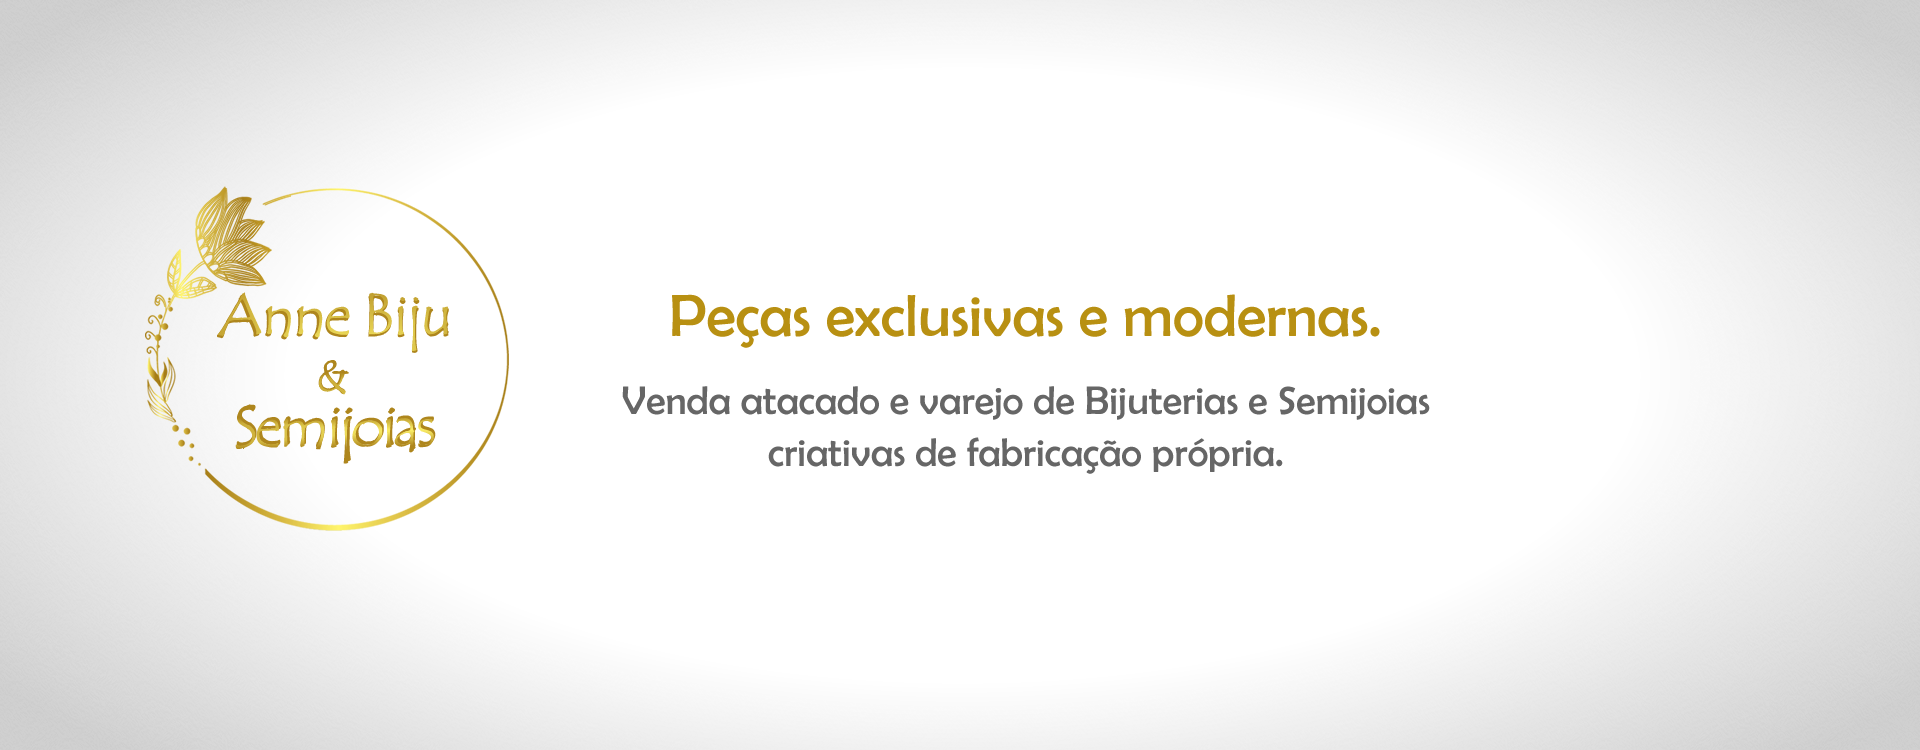
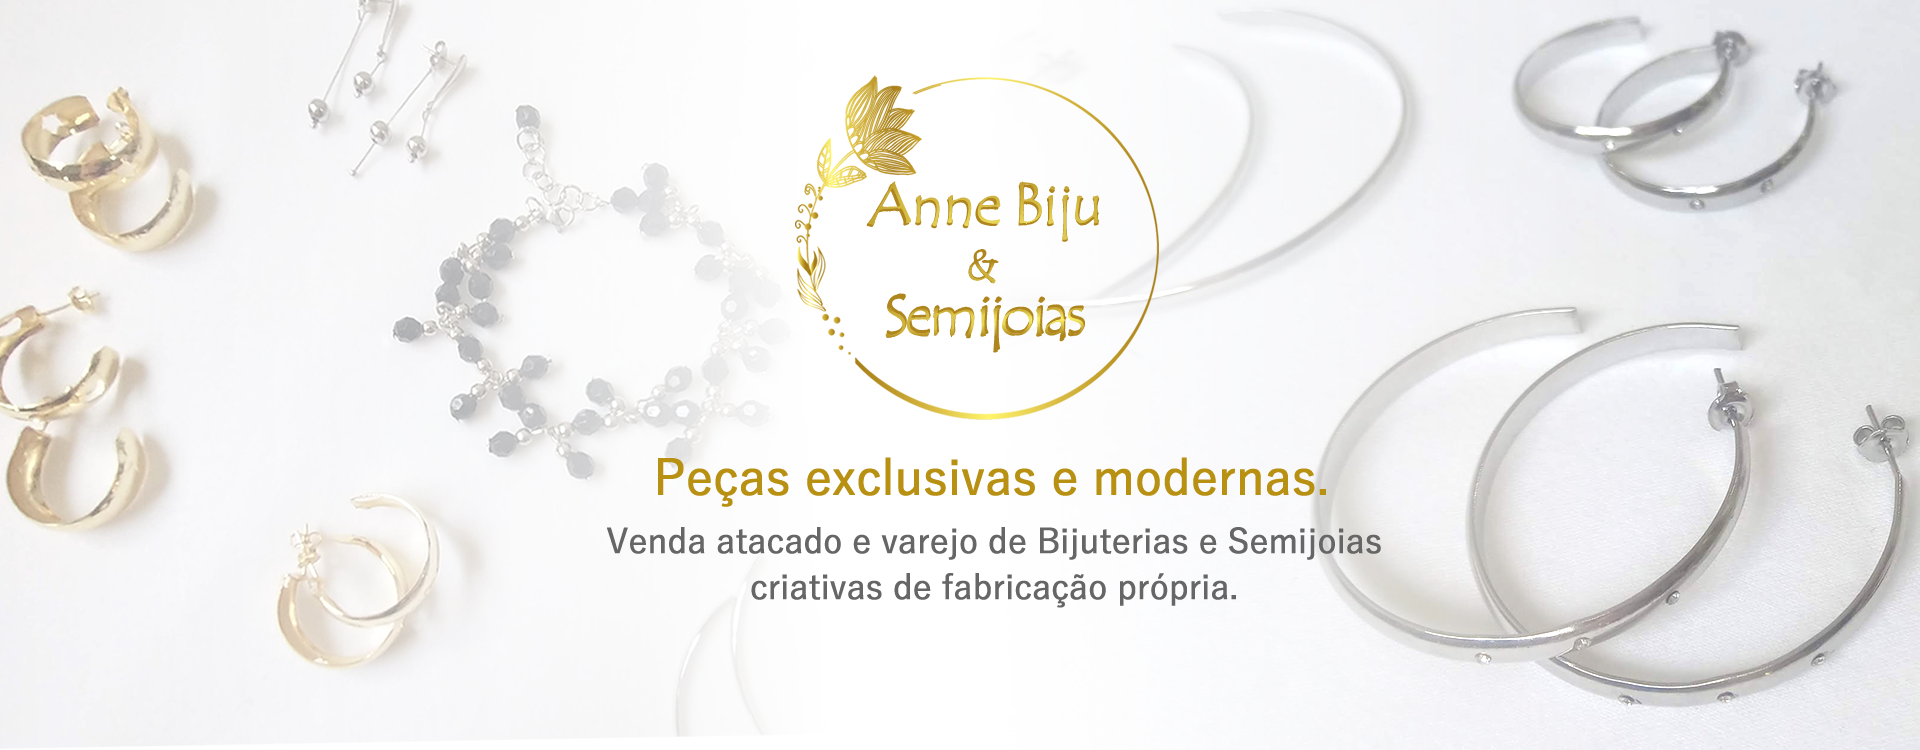
update images

diff --git a/index.html b/index.html
@@ -6,8 +6,6 @@
     <meta name="viewport" content="width=device-width, initial-scale=1.0">
     <title>Anne Biju e Semijoias</title>
 
-    <link rel="shortcut icon" href="favicon.ico" type="image/x-icon">
-
     <!-- Bootstrap CDN -->
 
     <link rel="stylesheet" href="https://stackpath.bootstrapcdn.com/bootstrap/4.5.2/css/bootstrap.min.css"
@@ -47,7 +45,7 @@
 
           </div>
           <div class="col-md-4 col-12 text-center">
-            <h2 class="my-md-3 site-title text-white"> Online Store</h2>
+            <h2 class="my-md-3 site-title text-white"> Nossa Loja</h2>
           </div>
           <div class="col-md-4 col-12 text-right">
             <p class="my-md-4 header-links">
@@ -123,7 +121,7 @@
               <img src="./assets/item2a.png" class="img-fluid" alt="Banner 2">
             </div>
             <div>
-              <img src="./assets/item-3.jpg" class="img-fluid" alt="Banner 3">
+              <img src="./assets/item3a.png" class="img-fluid" alt="Banner 3">
             </div>
           </div>
           <div class="slider-btn">
@@ -197,9 +195,9 @@
         <div class="site-slider-three px-md-4">
           <div class="slider-three row text-center px-4">
             <div class="col-md-2 product pt-md-5">
-              <img src="/assets/15_3.jpg" class="img-fluid" alt="Image 1">
+              <img src="/assets/gargantilha_color.png" class="img-fluid" alt="Image 1">
               <div class="cart-details">
-                <h6 class="pro-title p-0">Vinyl Folding Table</h6>
+                <h6 class="pro-title p-0">Colar Flores Coloridas</h6>
                 <div class="rating">
                   <i class="fas fa-star"></i>
                   <i class="fas fa-star"></i>
@@ -209,8 +207,8 @@
                 </div>
                 <div class="pro-price py-2">
                   <h5>
-                    <small><s class="text-secondary">$125.99</s></small>
-                    <span>$120</span>
+                    <small><s class="text-secondary">R$25.00</s></small>
+                    <span>R$20</span>
                   </h5>
                 </div>
                 <div class="cart mt-4">
@@ -219,9 +217,9 @@
               </div>
             </div>
             <div class="col-md-2 product pt-md-5">
-              <img src="/assets/9_21.jpg" class="img-fluid" alt="Image 2">
+              <img src="/assets/flor-verde.png" class="img-fluid" alt="Image 2">
               <div class="cart-details">
-                <h6 class="pro-title p-0">Ikea Rusch 25x4 Wall</h6>
+                <h6 class="pro-title p-0">Gargantilha Flor Verde</h6>
                 <div class="rating">
                   <i class="fas fa-star"></i>
                   <i class="fas fa-star"></i>
@@ -231,8 +229,8 @@
                 </div>
                 <div class="pro-price py-2">
                   <h5>
-                    <small><s class="text-secondary">$119.99</s></small>
-                    <span>$103</span>
+                    <small><s class="text-secondary">R$20.00</s></small>
+                    <span>R$15</span>
                   </h5>
                 </div>
                 <div class="cart mt-4">
@@ -241,9 +239,9 @@
               </div>
             </div>
             <div class="col-md-2 product pt-md-5">
-              <img src="/assets/10_22.jpg" class="img-fluid" alt="Image 3">
+              <img src="/assets/buzios_1.png" class="img-fluid" alt="Image 3">
               <div class="cart-details">
-                <h6 class="pro-title p-0">Himalayan Salt Lamp Touch</h6>
+                <h6 class="pro-title p-0">Gargantilha Búzios Dourados</h6>
                 <div class="rating">
                   <i class="fas fa-star"></i>
                   <i class="fas fa-star"></i>
@@ -253,8 +251,8 @@
                 </div>
                 <div class="pro-price py-2">
                   <h5>
-                    <small><s class="text-secondary">$469.99</s></small>
-                    <span>$449.99</span>
+                    <small><s class="text-secondary">R$30.00</s></small>
+                    <span>R$25.00</span>
                   </h5>
                 </div>
                 <div class="cart mt-4">
@@ -263,30 +261,9 @@
               </div>
             </div>
             <div class="col-md-2 product pt-md-5">
-              <img src="/assets/12_16.jpg" class="img-fluid" alt="Image 4">
+              <img src="/assets/colar_marrom.png" class="img-fluid" alt="Image 4">
               <div class="cart-details">
-                <h6 class="pro-title p-0">Table Lamp Beside Desk</h6>
-                <div class="rating">
-                  <i class="fas fa-star"></i>
-                  <i class="fas fa-star"></i>
-                  <i class="fas fa-star"></i>
-                  <i class="fas fa-star"></i>
-                  <i class="fas fa-star-half-alt"></i>
-                </div>
-                <div class="pro-price py-2">
-                  <h5>
-                    <span>$449.99</span>
-                  </h5>
-                </div>
-                <div class="cart mt-4">
-                  <button class="border site-btn btn-span">Add to Cart</button>
-                </div>
-              </div>
-            </div>
-            <div class="col-md-2 product pt-md-5">
-              <img src="/assets/11_18.jpg" class="img-fluid" alt="Image 5">
-              <div class="cart-details">
-                <h6 class="pro-title p-0">Table Lamp Beside Desk</h6>
+                <h6 class="pro-title p-0">Colar Pedra Marrom</h6>
                 <div class="rating">
                   <i class="fas fa-star"></i>
                   <i class="fas fa-star"></i>
@@ -296,8 +273,8 @@
                 </div>
                 <div class="pro-price py-2">
                   <h5>
-                    <small><s class="text-secondary">$259.99</s></small>
-                    <span>$240.00</span>
+                    <small><s class="text-secondary">R$30.00</s></small>
+                    <span>R$25.00</span>
                   </h5>
                 </div>
                 <div class="cart mt-4">
@@ -306,16 +283,38 @@
               </div>
             </div>
             <div class="col-md-2 product pt-md-5">
-              <img src="/assets/7_22.jpg" class="img-fluid" alt="Image 6">
+              <img src="/assets/gargantilha_color.png" class="img-fluid" alt="Image 5">
               <div class="cart-details">
-                <h6 class="pro-title p-0">Outdoor Patio Teak Side Table</h6>
+                <h6 class="pro-title p-0">Gargantilha Colorida</h6>
+                <div class="rating">
+                  <i class="fas fa-star"></i>
+                  <i class="fas fa-star"></i>
+                  <i class="fas fa-star"></i>
+                  <i class="fas fa-star"></i>
+                  <i class="fas fa-star-half-alt"></i>
+                </div>
+                <div class="pro-price py-2">
+                  <h5>
+                    <small><s class="text-secondary">R$25.00</s></small>
+                    <span>R$20.00</span>
+                  </h5>
+                </div>
+                <div class="cart mt-4">
+                  <button class="border site-btn btn-span">Add to Cart</button>
+                </div>
+              </div>
+            </div>
+            <div class="col-md-2 product pt-md-5">
+              <img src="/assets/buzios_2.png" class="img-fluid" alt="Image 6">
+              <div class="cart-details">
+                <h6 class="pro-title p-0">Colar e Gargantilha</h6>
                 <div class="rating">
                   <span>Write your review</span>
                 </div>
                 <div class="pro-price py-2">
                   <h5>
-                    <small><s class="text-secondary">$139.99</s></small>
-                    <span>$125.00</span>
+                    <small><s class="text-secondary">R$35.00</s></small>
+                    <span>R$30.00</span>
                   </h5>
                 </div>
                 <div class="cart mt-4">
@@ -361,13 +360,13 @@
               </div>
               <div class="col-md-8 p-0 bg-white">
                 <div class="text-left">
-                  <img src="/assets/1_11.jpg" alt="Sofá" class="img-fluid">
+                  <img src="/assets/a1_11.png" alt="Sofá" class="img-fluid">
                 </div>
               </div>
             </div>
           </div>
           <div class="col-md-6 col-12 pt-5">
-            <h4 class="text-left">Upholstered Fabric Sofa</h4>
+            <h4 class="text-left">Gargantilha Flor Verde</h4>
             <p class="text-secondary pr-5 pt-3">
               <small>
                 Lorem ipsum dolor sit amet consectetur adipisicing elit. Quaerat minima quos expedita? Cum enim alias
@@ -382,8 +381,8 @@
               <i class="fas fa-star"></i>
             </div>
             <h4 class="pt-2">
-              <small> <s class="text-secondary">$519.99</s></small>
-              <span class="text-color">$499.00</span>
+              <small> <s class="text-secondary">R$20.00</s></small>
+              <span class="text-color">R$15.00</span>
             </h4>
             <div class="cart mt-4 row">
               <div class="col-md-4 col-sm-12 p-0">
@@ -437,10 +436,10 @@
       <div class="container my-5">
         <div class="row">
           <div class="col-md-8 col-12">
-            <img src="/assets/id-9-banner-1.jpg" class="img-fluid" alt="Banner 1">
+            <img src="/assets/aid-9-banner-1.png" class="img-fluid" alt="Banner 1">
           </div>
           <div class="col-md-4 col-12">
-            <img src="/assets/id-9-banner-2.jpg" class="img-fluid" alt="Banner 2">
+            <img src="/assets/aid-9-banner-2.png" class="img-fluid" alt="Banner 2">
           </div>
         </div>
         <div class="row my-md-3">
@@ -448,7 +447,7 @@
             <img src="/assets/id-9-banner-3.jpg" class="img-fluid" alt="Banner 3">
           </div>
           <div class="col-md-8 col-12">
-            <img src="/assets/id-9-banner-4.jpg" class="img-fluid" alt="Banner 4">
+            <img src="/assets/aid-9-banner-4.png" class="img-fluid" alt="Banner 4">
           </div>
         </div>
       </div>
@@ -510,12 +509,12 @@
               <div class="row py-3">
                 <div class="col-md-3 p-0">
                   <div class="items border-0">
-                    <img src="/assets/9_21.jpg" class="img-fluid" alt="Image 3">
+                    <img src="/assets/buzios_2.png" class="img-fluid" alt="Image 3">
                   </div>
                 </div>
                 <div class="col-md-9 p-0 py-4 py-md-0">
                   <div class="px-4">
-                    <h6>Ikea Rusch 25x4 Wall</h6>
+                    <h6>Gargantilha Búzios Dourados</h6>
                     <div class="rating pb-2">
                       <i class="fas fa-star"></i>
                       <i class="fas fa-star"></i>
@@ -714,7 +713,7 @@
       <div class="container-fluid p-0">
         <div class="slider-client">
           <div class="slider-box text-center">
-            <h1 class="pt-5 font-roboto">What Our Client Say?</h1>
+            <h1 class="pt-5 font-roboto">Opinião dos Nossos Clientes</h1>
             <div class="slider-six">
               <div>
                 <p>Lorem ipsum dolor sit amet consectetur, adipisicing elit. Delectus, ullam voluptate nam cum rem

diff --git a/js/paypalpayment.js b/js/paypalpayment.js
@@ -1,0 +1,45 @@
+
+
+var express = require('express');
+var request = require('request');
+
+express()
+    .post('/my-server/create-order', function(req, res) {
+        request.post('https://api-m.sandbox.paypal.com/v2/checkout/orders', {
+            headers: {
+                Content-Type: "application/json",
+                Authorization: "Bearer <Access-Token>",
+                PayPal-Partner-Attribution-Id: "8G86Y4G86ZFSE"
+            },
+            body: {
+                "intent": "CAPTURE",
+                "purchase_units": [{
+                    "amount": {
+                        "currency_code": "USD",
+                        "value": "100.00"
+                    },
+                    "payee": {
+                        "email_address": "seller@example.com"
+                    },
+                    "payment_instruction": {
+                        "disbursement_mode": "INSTANT",
+                        "platform_fees": [{
+                            "amount": {
+                                "currency_code": "USD",
+                                "value": "25.00"
+                            }
+                        }]
+                    }
+                }],
+            },
+            json: true
+        }, function (err, response, body) {
+            if (err) {
+                console.error(err);
+                return res.sendStatus(500);
+            }
+            res.json({
+                id: body.id
+            });
+        });
+    });

diff --git a/js/like_button.js b/js/like_button.js
@@ -1,0 +1,25 @@
+"use strict";
+
+const e = React.createElement;
+
+class LikeButton extends React.Component {
+  constructor(props) {
+    super(props);
+    this.state = { liked: false };
+  }
+
+  render() {
+    if (this.state.liked) {
+      return "You liked this.";
+    }
+
+    return e(
+      "button",
+      { onClick: () => this.setState({ liked: true }) },
+      "Like"
+    );
+  }
+}
+
+const domContainer = document.querySelector("#like_button_container");
+ReactDOM.render(e(LikeButton), domContainer);

diff --git a/css/style.css b/css/style.css
@@ -68,8 +68,8 @@ header .site-title {
 
 .navbar-nav .nav-link {
   font-size: 0.9em;
-  /* color: var(--light-gray) !important; */
-  border: 1px var(--border);
+  color: white !important;
+  /*border: 1px solid var(--border);*/
   border-radius: 4rem;
   margin: 0 0.4rem;
 }
@@ -81,7 +81,6 @@ header .site-title {
 .navbar-nav .nav-item .nav-link {
   background: linear-gradient(120deg, #973200 0%, #d2b23e 100%) !important;
   padding: 0 1.3em;
-  color: white;
 }
 
 .navbar-nav .basket-icon {
